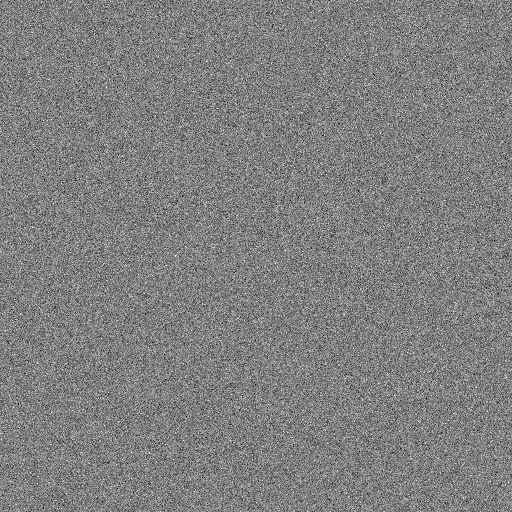
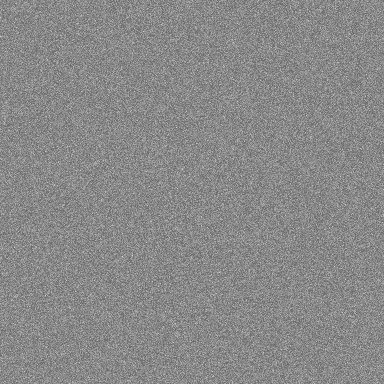
Lighten proto grain on gradients and use finer 192px tiles.
Bias noise toward lighter values, switch to soft-light blend, shrink display tile from 256px to 192px with matching 384/576px DPR assets, and trim opacity slightly.

diff --git a/app/proto.css b/app/proto.css
@@ -226,8 +226,8 @@ html[data-proto-page] {
     url("/proto-grain-tile.png") 2x,
     url("/proto-grain-tile-3x.png") 3x
   );
-  --proto-grain-opacity: 0.32;
-  --proto-grain-tile-size: 256px;
+  --proto-grain-opacity: 0.28;
+  --proto-grain-tile-size: 192px;
 }
 
 @media (-webkit-min-device-pixel-ratio: 2.5), (min-resolution: 2.5dppx) {
@@ -243,7 +243,7 @@ html[data-proto-page] .proto-invest-hero-backdrop > div.z-\[1\],
 html[data-proto-page] .proto-desktop-carousel-backdrop > div.z-\[1\] {
   background-image: var(--proto-grain-image) !important;
   opacity: var(--proto-grain-opacity) !important;
-  mix-blend-mode: hard-light !important;
+  mix-blend-mode: soft-light !important;
   background-size: var(--proto-grain-tile-size) var(--proto-grain-tile-size) !important;
   background-repeat: repeat !important;
   image-rendering: auto !important;
@@ -251,7 +251,7 @@ html[data-proto-page] .proto-desktop-carousel-backdrop > div.z-\[1\] {
 }
 
 html[data-proto-page][data-layout="desktop"] {
-  --proto-grain-opacity: 0.3;
+  --proto-grain-opacity: 0.25;
 }
 
 /* Feature box UI mocks — display-only (no selection or control clicks). */

diff --git a/lib/proto/proto-phone-grain.ts b/lib/proto/proto-phone-grain.ts
@@ -1,12 +1,12 @@
-/** Proto grain — DPR-matched PNGs at 256px (512px @2×, 768px @3×). */
-export const PROTO_GRAIN_TILE_PX = 256;
+/** Proto grain — DPR-matched PNGs at 192px (384px @2×, 576px @3×). */
+export const PROTO_GRAIN_TILE_PX = 192;
 
 export const PROTO_GRAIN_BG = 'url("/proto-grain-tile.png")';
 export const PROTO_GRAIN_BG_3X = 'url("/proto-grain-tile-3x.png")';
 
 export const PROTO_GRAIN_SIZE = `${PROTO_GRAIN_TILE_PX}px ${PROTO_GRAIN_TILE_PX}px`;
 
-/** Layer opacity — hard-light blend in proto.css */
-export const PROTO_GRAIN_OPACITY = 0.32;
+/** Layer opacity — soft-light blend in proto.css */
+export const PROTO_GRAIN_OPACITY = 0.28;
 
 export const PROTO_PHONE_GRAIN_BG = PROTO_GRAIN_BG;

diff --git a/scripts/generate-proto-grain.py b/scripts/generate-proto-grain.py
@@ -8,11 +8,11 @@ import zlib
 from pathlib import Path
 
 GRAIN_SEED = 0x50726F746F
-GRAIN_DISPLAY_PX = 256
-# 2× displays (MacBook, etc.) — 512px tile @ 256px = 1:1 device pixels.
-GRAIN_2X_PX = 512
-# 3× displays (iPhone) — 768px tile @ 256px = 1:1 device pixels.
-GRAIN_3X_PX = 768
+GRAIN_DISPLAY_PX = 192
+# 2× displays — 384px tile @ 192px = 1:1 device pixels.
+GRAIN_2X_PX = 384
+# 3× displays — 576px tile @ 192px = 1:1 device pixels.
+GRAIN_3X_PX = 576
 
 
 def png_chunk(tag: bytes, data: bytes) -> bytes:
@@ -25,15 +25,11 @@ def png_chunk(tag: bytes, data: bytes) -> bytes:
 
 
 def film_grain_value(rng: random.Random) -> int:
-    """Per-pixel film grain — high-frequency only; no spatial blur or upsampling."""
-    v = 128.0 + rng.gauss(0, 24.0)
-    roll = rng.random()
-    if roll < 0.055:
-        v += rng.choice([-1.0, 1.0]) * rng.uniform(34.0, 56.0)
-    elif roll < 0.105:
-        v += rng.choice([-1.0, 1.0]) * rng.uniform(14.0, 26.0)
-    v = 128.0 + (v - 128.0) * 1.1
-    return int(max(0, min(255, v)))
+    """Per-pixel grain biased light so soft-light darkens the gradient less."""
+    v = 136.0 + rng.gauss(0, 17.0)
+    if rng.random() < 0.04:
+        v += rng.uniform(10.0, 28.0)
+    return int(max(108, min(255, v)))
 
 
 def write_grain_png(path: Path, size: int, seed: int = GRAIN_SEED) -> None: